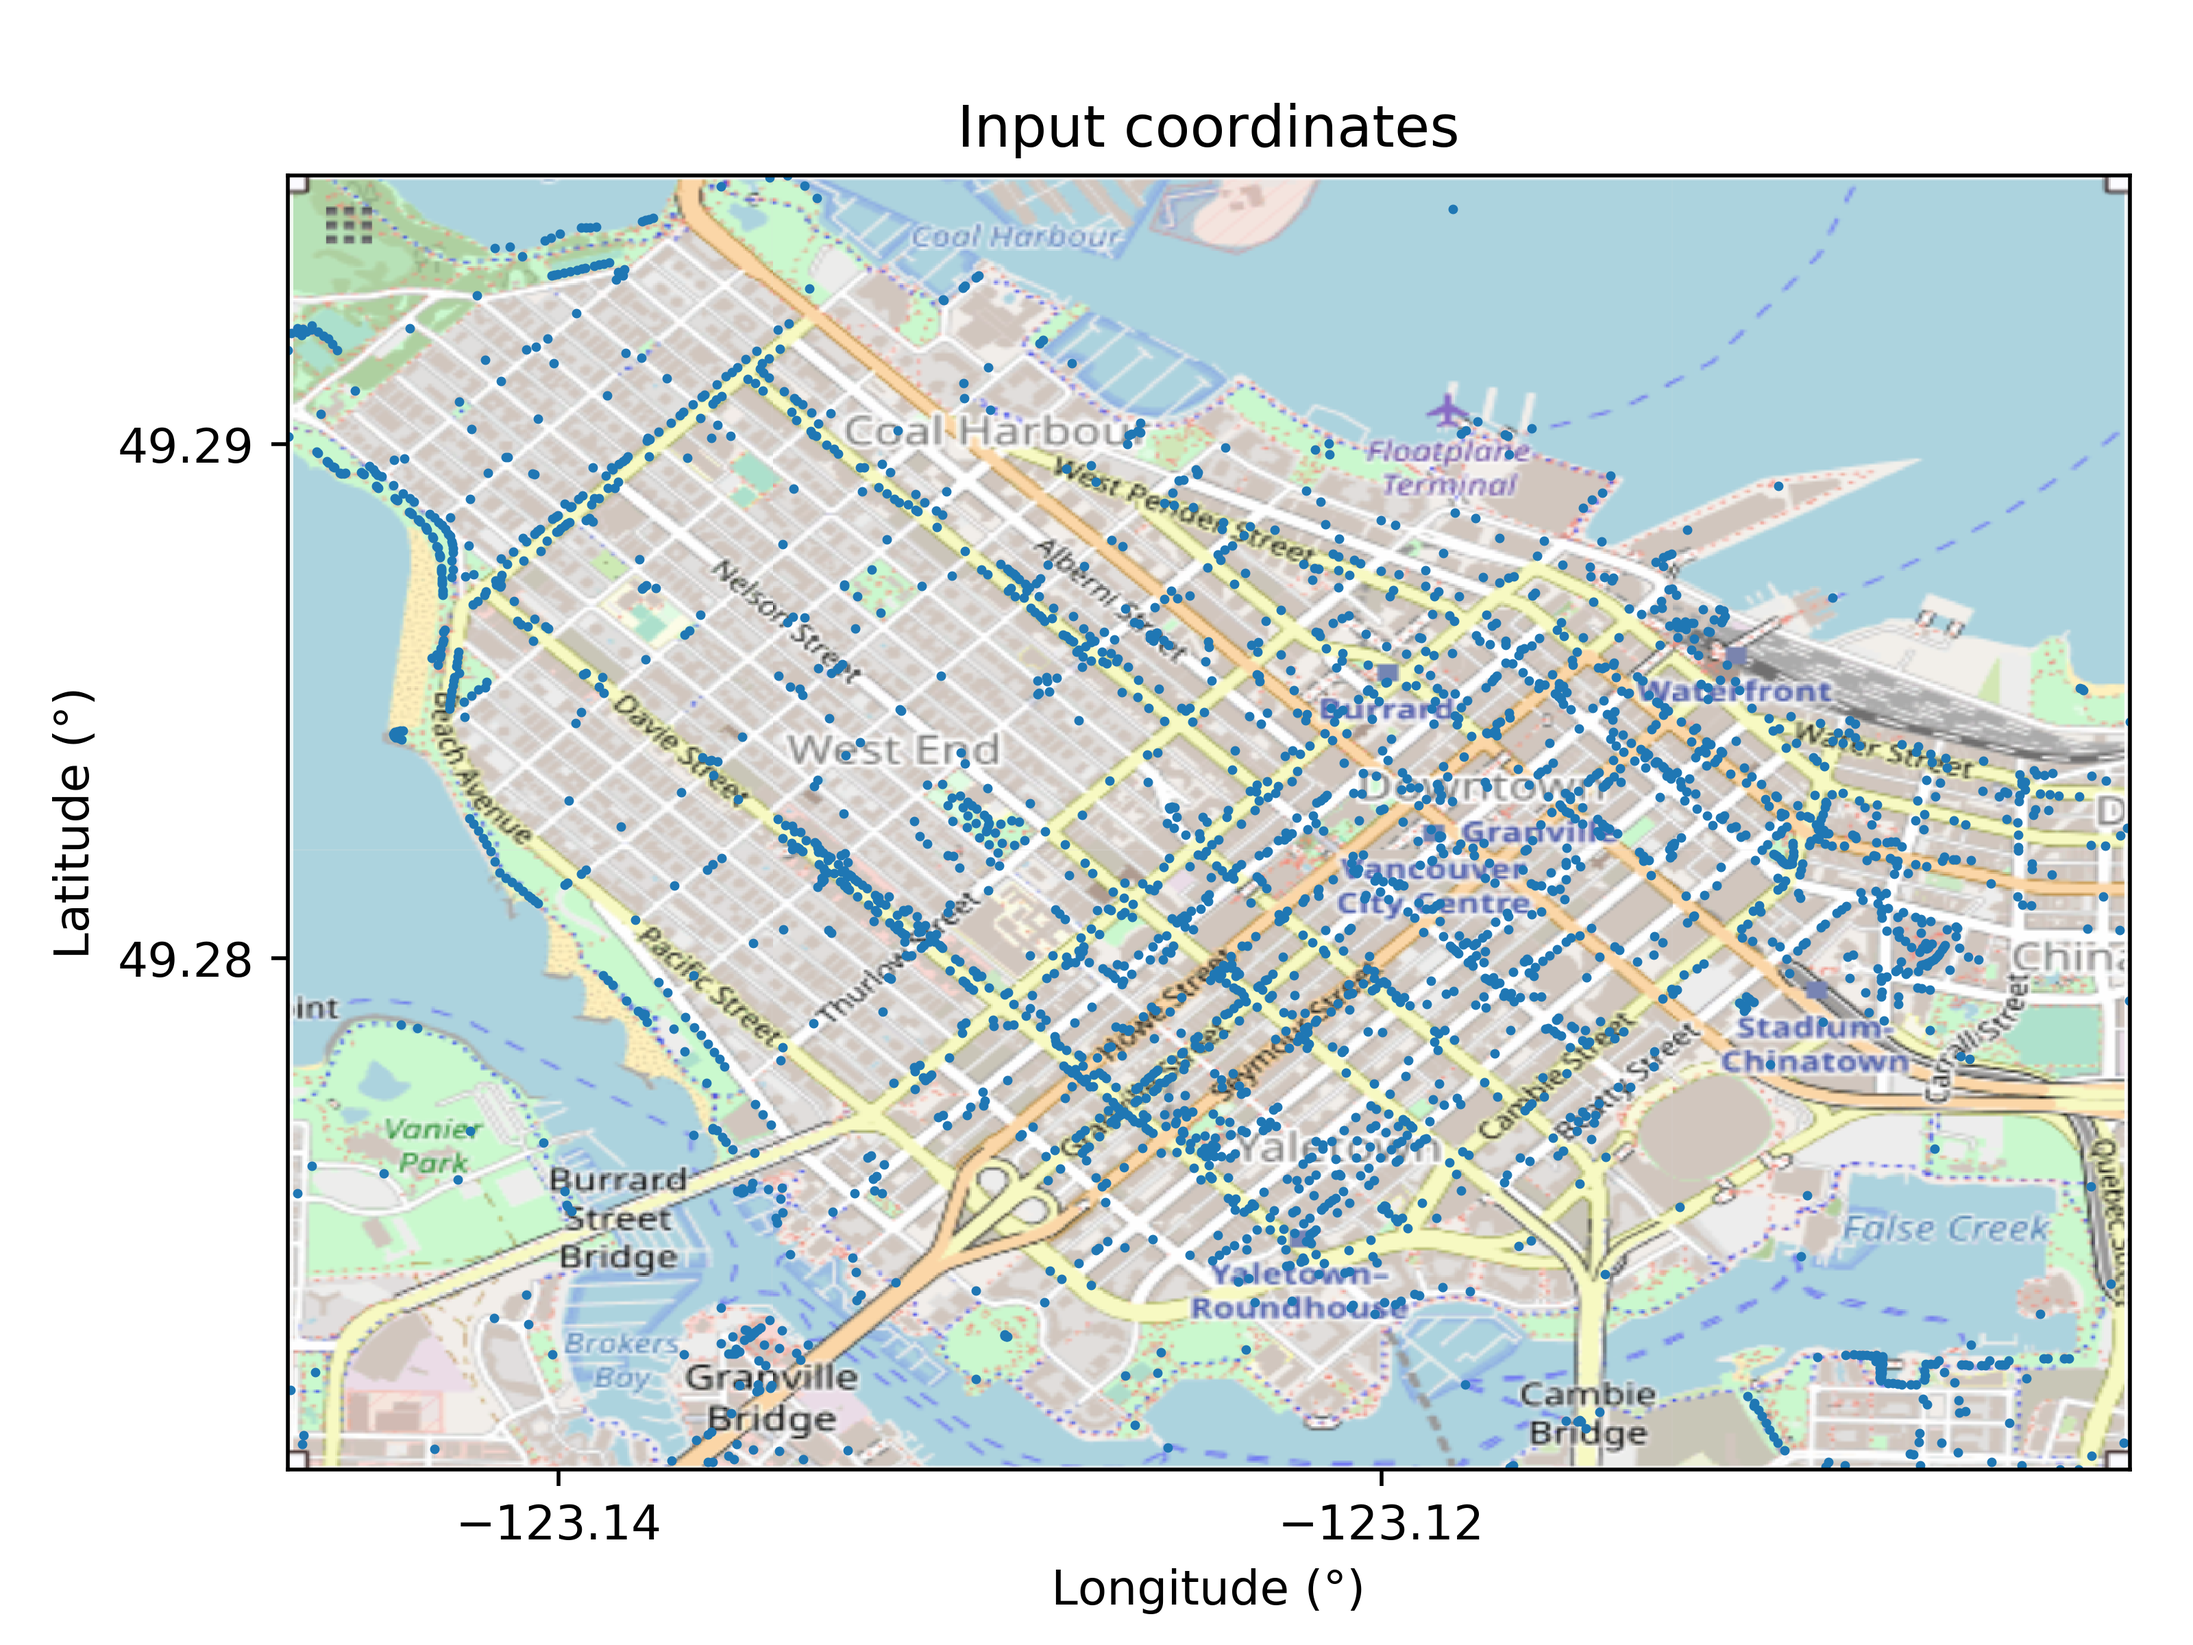
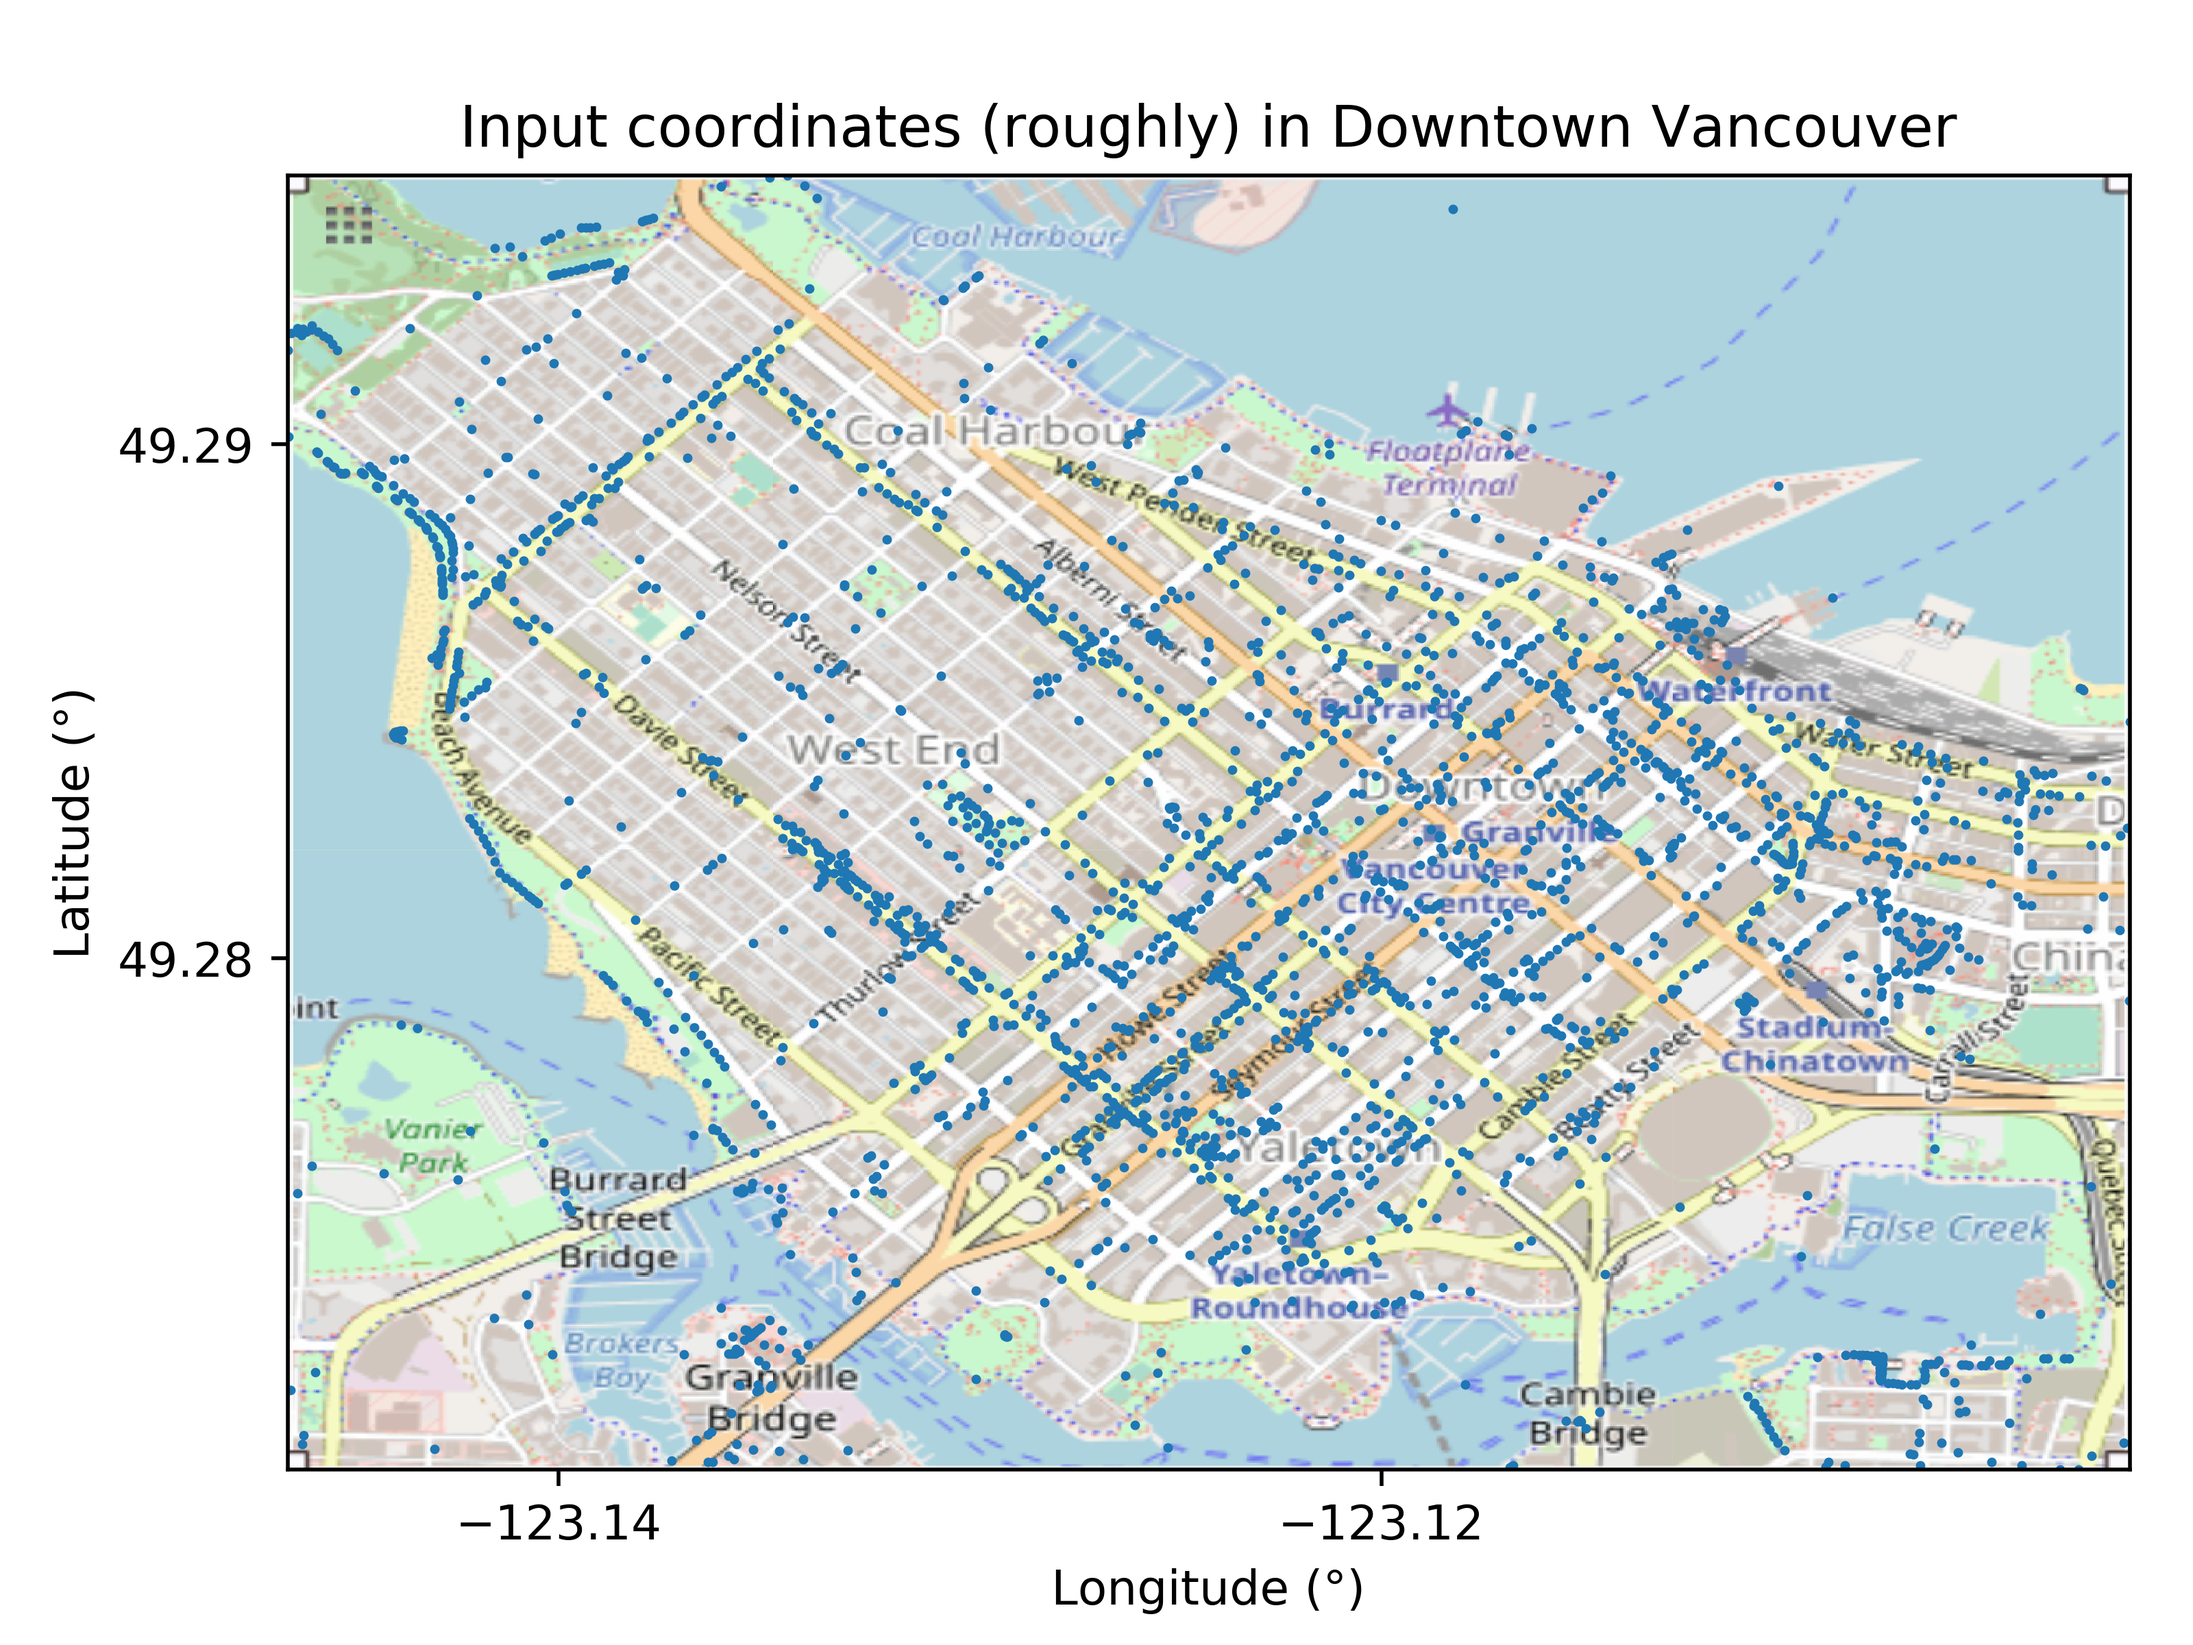
improve plot title add heuristics to script 5 output

Changed region(s): [[0.2188, 0.0625, 0.9062, 0.0938]]

diff --git a/src/5-create-path.py b/src/5-create-path.py
@@ -10,7 +10,7 @@ from math import radians, cos, sin, asin, sqrt
 def reorder(points):
   # build an order that tries to minimize total haversine distance
 
-  path = pd.DataFrame(columns=['lat', 'lon', 'amenity', 'tags', 'name'])  # empty dataframe
+  path = pd.DataFrame(columns=['lat', 'lon', 'amenity', 'tags', 'name', 'interesting_heuristic'])  # empty dataframe
   addedIdxs = [] 
 
   for i in range(len(points)):
@@ -19,7 +19,17 @@ def reorder(points):
       rightmost = points[points['lon'] == points['lon'].max()]
       addedIdxs.append(rightmost.index[0])
       rightmost = rightmost.iloc[0]  # get first row from filter
-      path = path.append({'lat': rightmost['lat'], 'lon': rightmost['lon'], 'amenity': rightmost['amenity'], 'tags': rightmost['tags'], 'name': rightmost['name']}, ignore_index=True)
+      path = path.append(
+        {
+          'lat': rightmost['lat'],
+          'lon': rightmost['lon'],
+          'amenity': rightmost['amenity'],
+          'tags': rightmost['tags'],
+          'name': rightmost['name'],
+          'interesting_heuristic': rightmost['interesting_heuristic']
+        },
+        ignore_index=True
+      )
 
     else:
       # of the remaining points, find nearest one to the prev point
@@ -38,7 +48,17 @@ def reorder(points):
 
       # add nearest point to path
       nearest = points.iloc[minIndex]
-      path = path.append({'lat': nearest['lat'], 'lon': nearest['lon'], 'amenity': nearest['amenity'], 'tags': nearest['tags'], 'name': nearest['name']}, ignore_index=True)
+      path = path.append(
+        {
+          'lat': nearest['lat'],
+          'lon': nearest['lon'],
+          'amenity': nearest['amenity'],
+          'tags': nearest['tags'],
+          'name': nearest['name'],
+          'interesting_heuristic': nearest['interesting_heuristic']
+        },
+        ignore_index=True
+      )
       addedIdxs.append(minIndex)
 
   return path
@@ -47,7 +67,10 @@ def reorder(points):
 def haversine(lon1, lat1, lon2, lat2):
   """
   Calculate the great circle distance between two points
-  on the earth (specified in decimal degrees)
+  on the Earth (specified in decimal degrees)
+
+  Adapted from Michael Dunn's response at
+  https://stackoverflow.com/questions/4913349/haversine-formula-in-python-bearing-and-distance-between-two-gps-points
   """
   # convert decimal degrees to radians
   lon1, lat1, lon2, lat2 = map(radians, [lon1, lat1, lon2, lat2])
@@ -94,7 +117,7 @@ def main(input_path, output_dir):
     else:
       website = ''
 
-    print(str(i+1) + '. ' + place['name'] + website)
+    print(str(i+1) + '. ' + place['name'] + website + ' | ' + str(round(place['interesting_heuristic'], 2)))
 
   # print path stats
   distance_walktime(path)

diff --git a/src/plot-on-map.py b/src/plot-on-map.py
@@ -60,7 +60,7 @@ def get_plot_title(flag):
   elif flag == '-p':
     return 'Haversine path of city tour'
   else:
-    return 'Input coordinates'
+    return 'Input coordinates (roughly) in Downtown Vancouver'
 
 
 def get_output_path(output_dir, flag):
